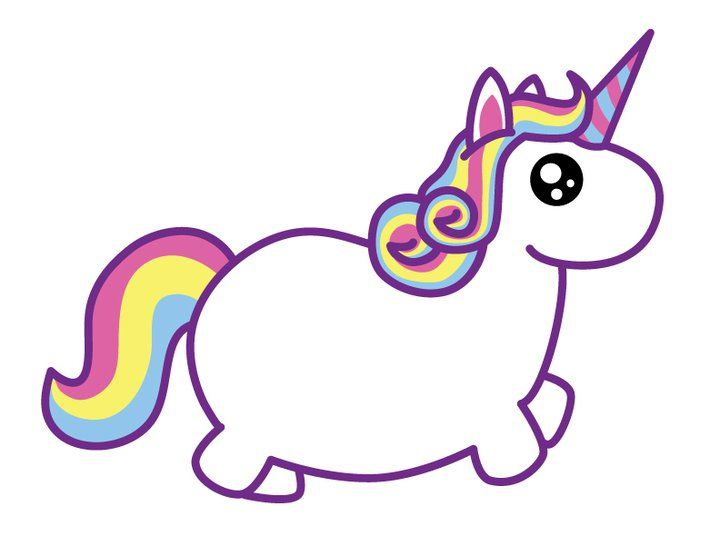
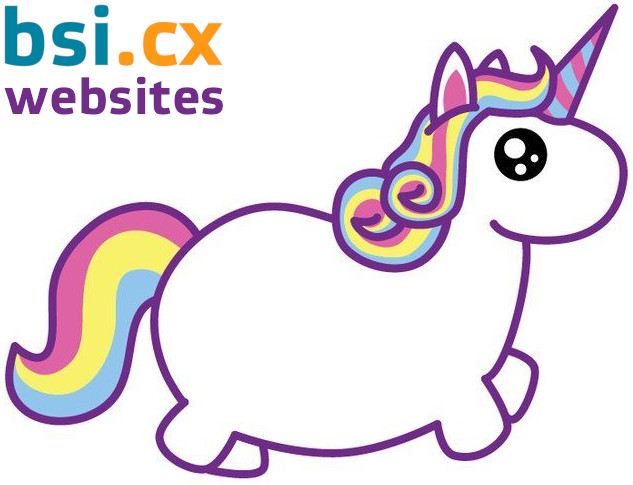
Improved two-column layout for situations with small screen width.
This makes it easier to edit websites built with the unicorn design
with the BSI CX editor. Also improved small quirks with unwanted line-
breaks and updated texts in header, footer and introduction. Added
BSI CX logo to the title illustration.

Changed region(s): [[0.0, 0.0, 1.0, 0.9897], [0.0, 0.0, 0.3602, 0.2474]]

diff --git a/css/main.css b/css/main.css
@@ -16,13 +16,21 @@ header {
   background-color: #0e4572;
 }
 
+header > div {
+  white-space: nowrap;
+  display: flex;
+}
+
 header > div > h1 {
   color: white;
   display: inline-block;
   font-size: 36px;
   vertical-align: top;
   margin-top: 20px;
-  font-family: "Footlight MT Light", serif
+  font-family: "Footlight MT Light", serif;
+  overflow: hidden;
+  text-overflow: ellipsis;
+  white-space: nowrap;
 }
 
 header > div > img {
@@ -139,26 +147,29 @@ footer a {
 
 /* ---- CONTENT ---- */
 .content-container-with-box {
-  text-align: center;
   display: flex;
   flex-flow: row nowrap;
-  margin: 20px 10%;
+  max-width: 1000px;
+  margin: 20px auto;
 }
 
 .content-container-column-left {
-  flex: none;
-  margin-right: 20px;
-  max-width: 50%;
+  flex-grow: 1;
+  padding: 20px;
+  margin-right: 10px;
+  min-width: calc(50% - 54px); /* subtract padding, margins and borders */
 }
 
 .content-container-column-right {
+  flex-grow: 1;
+  padding: 20px;
+  margin-left: 10px;
+  min-width: calc(50% - 54px); /* subtract padding, margins and borders */
+
   background: linear-gradient(to bottom, #ebf1f6 0%,#abd3ee 50%,#89c3eb 51%,#d5ebfb 100%);
   border-radius: 10px;
   border: solid 2px #0e4572;
   min-height: 200px;
-  flex: 0 1 350px;
-  padding: 20px;
-  text-align: left;
 }
 
 /* Main Content - for direct child-elements of main-content, add a margin */
@@ -349,9 +360,10 @@ label {
 
 /* ---- Form Field Container ---- */
 .form-field-container {
-  position: relative;
-  margin: 5px 0;
-  text-align: left;
+  margin: 5px 0 10px 0; /* prevent effect of collapsing margins */
+  display: flex;
+  align-items: flex-start;
+  max-width: 450px;
 }
 
 .form-field-container.required > label::after {
@@ -359,17 +371,15 @@ label {
   color: #de63a4;
   position: absolute;
   top: 0;
-  right: 0;
-}
-
-.single-column-form .form-field-container {
-  width: 670px;
+  right: 8px;
 }
 
 /* ---- Form Field ---- */
 .single-column-form .form-field > label {
-  width: 180px;
-  margin-right: 40px;
+  max-width: 150px;
+  padding-right: 30px;
+  flex-grow: 1;
+  position: relative; /* because of required icon */
 }
 
 .two-column-form .form-field > label {
@@ -377,21 +387,16 @@ label {
   min-height: 23px;
 }
 
-.single-column-form .form-field.required > label {
-  width: 200px;
-  margin-right: 20px;
-}
-
 .form-field > input {
   box-sizing: border-box;
   border-width: 1px;
   border-radius: 5px;
   padding: 3px 7px;
-  width: 350px;
+  flex-grow: 2;
 }
 
 .single-column-form .form-field > input {
-  width: 350px;
+  max-width: 300px;
 }
 
 .two-column-form .form-field > input {

diff --git a/include/page.html b/include/page.html
@@ -13,7 +13,7 @@
     <div class="content-container-column-right" data-bsi-dropzone="content-container-column-right"
          data-bsi-dropzone-allowed-elements="title text single-image bullet-list qr-code single-column-form table html social-follow social-share cta-button rest-call">
       <div data-bsi-element="text" data-bsi-element-part="formatted-text" class="text">
-        {{bsi.nls "introduction"}}
+        {{{bsi.nls "introduction"}}}
       </div>
     </div>
 

diff --git a/include/footer.html b/include/footer.html
@@ -3,7 +3,7 @@
   data-bsi-dropzone-max-number-of-elements="1"
   data-bsi-dropzone-allowed-elements="text">
   <div data-bsi-element="text" data-bsi-element-part="formatted-text" class="text">
-    <strong>&copy; 2020 - Mythical Creatures Inc.</strong><br/>
+    <strong>&copy; 2021 - BSI Business Systems Integration AG</strong><br/>
     {{{bsi.nls "disclaimer"}}}
   </div>
 </footer>
